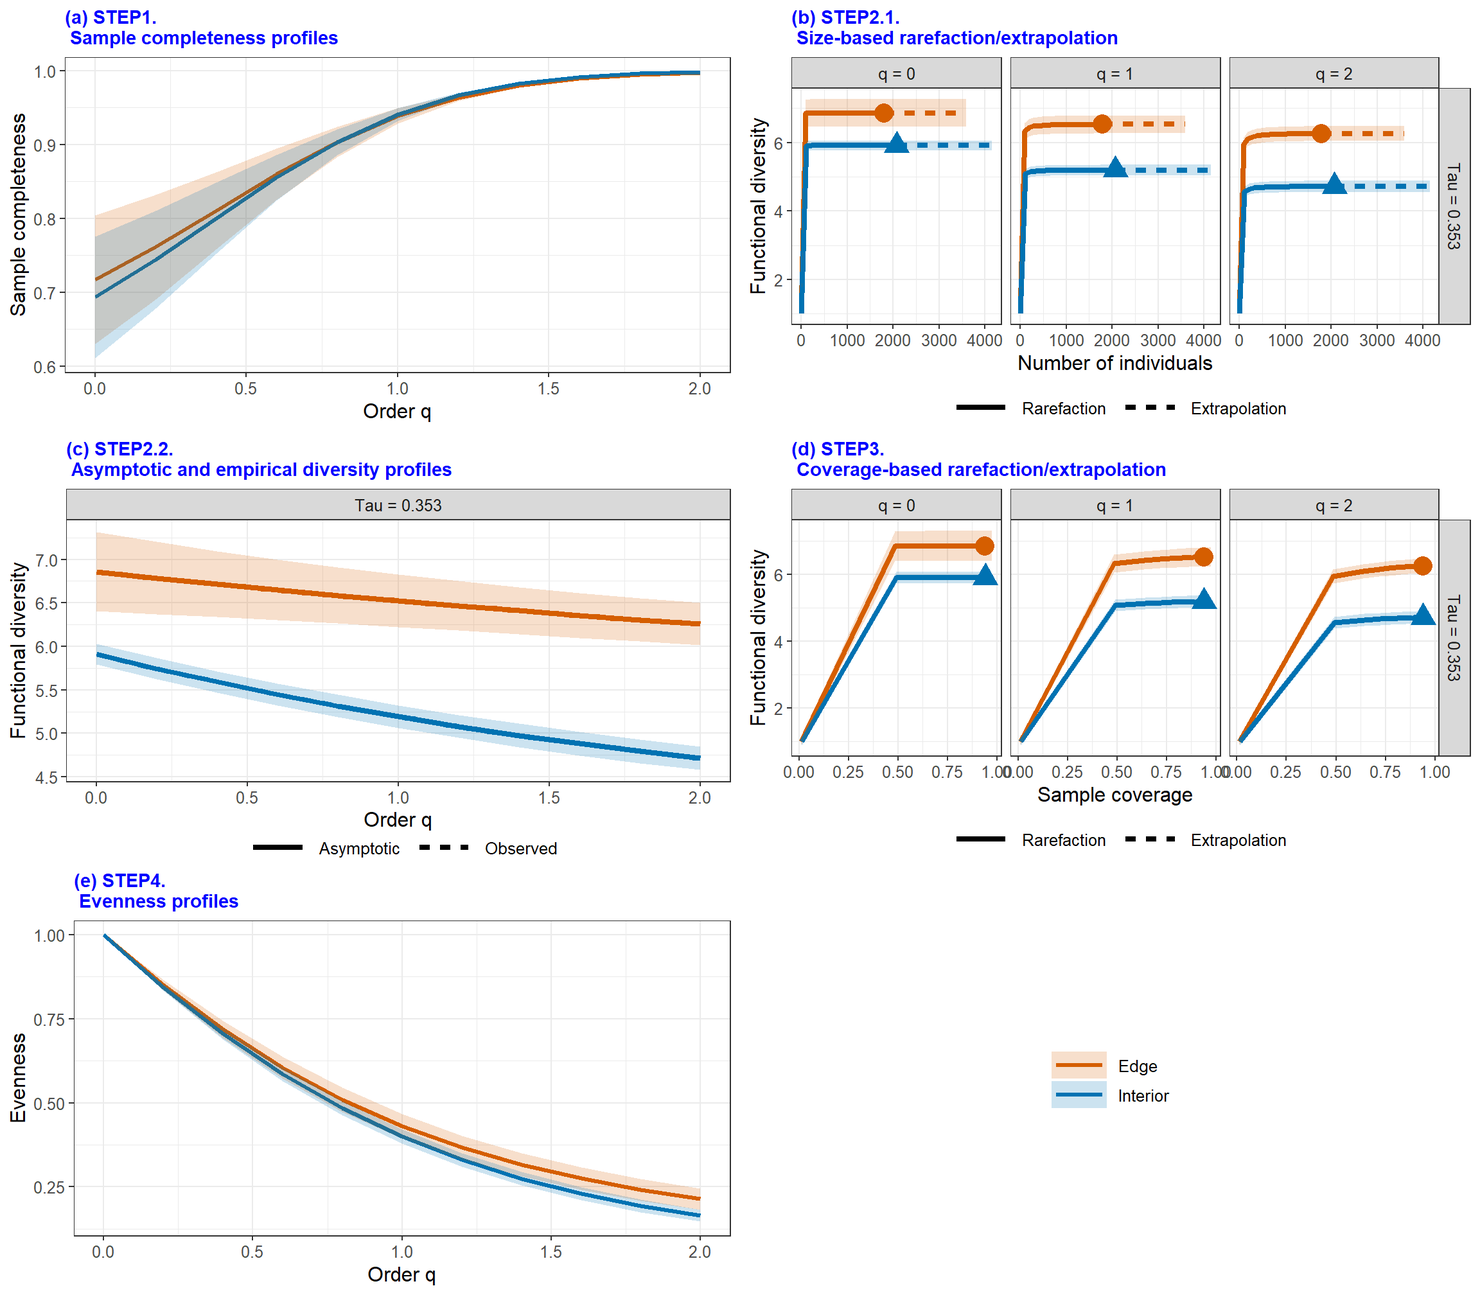
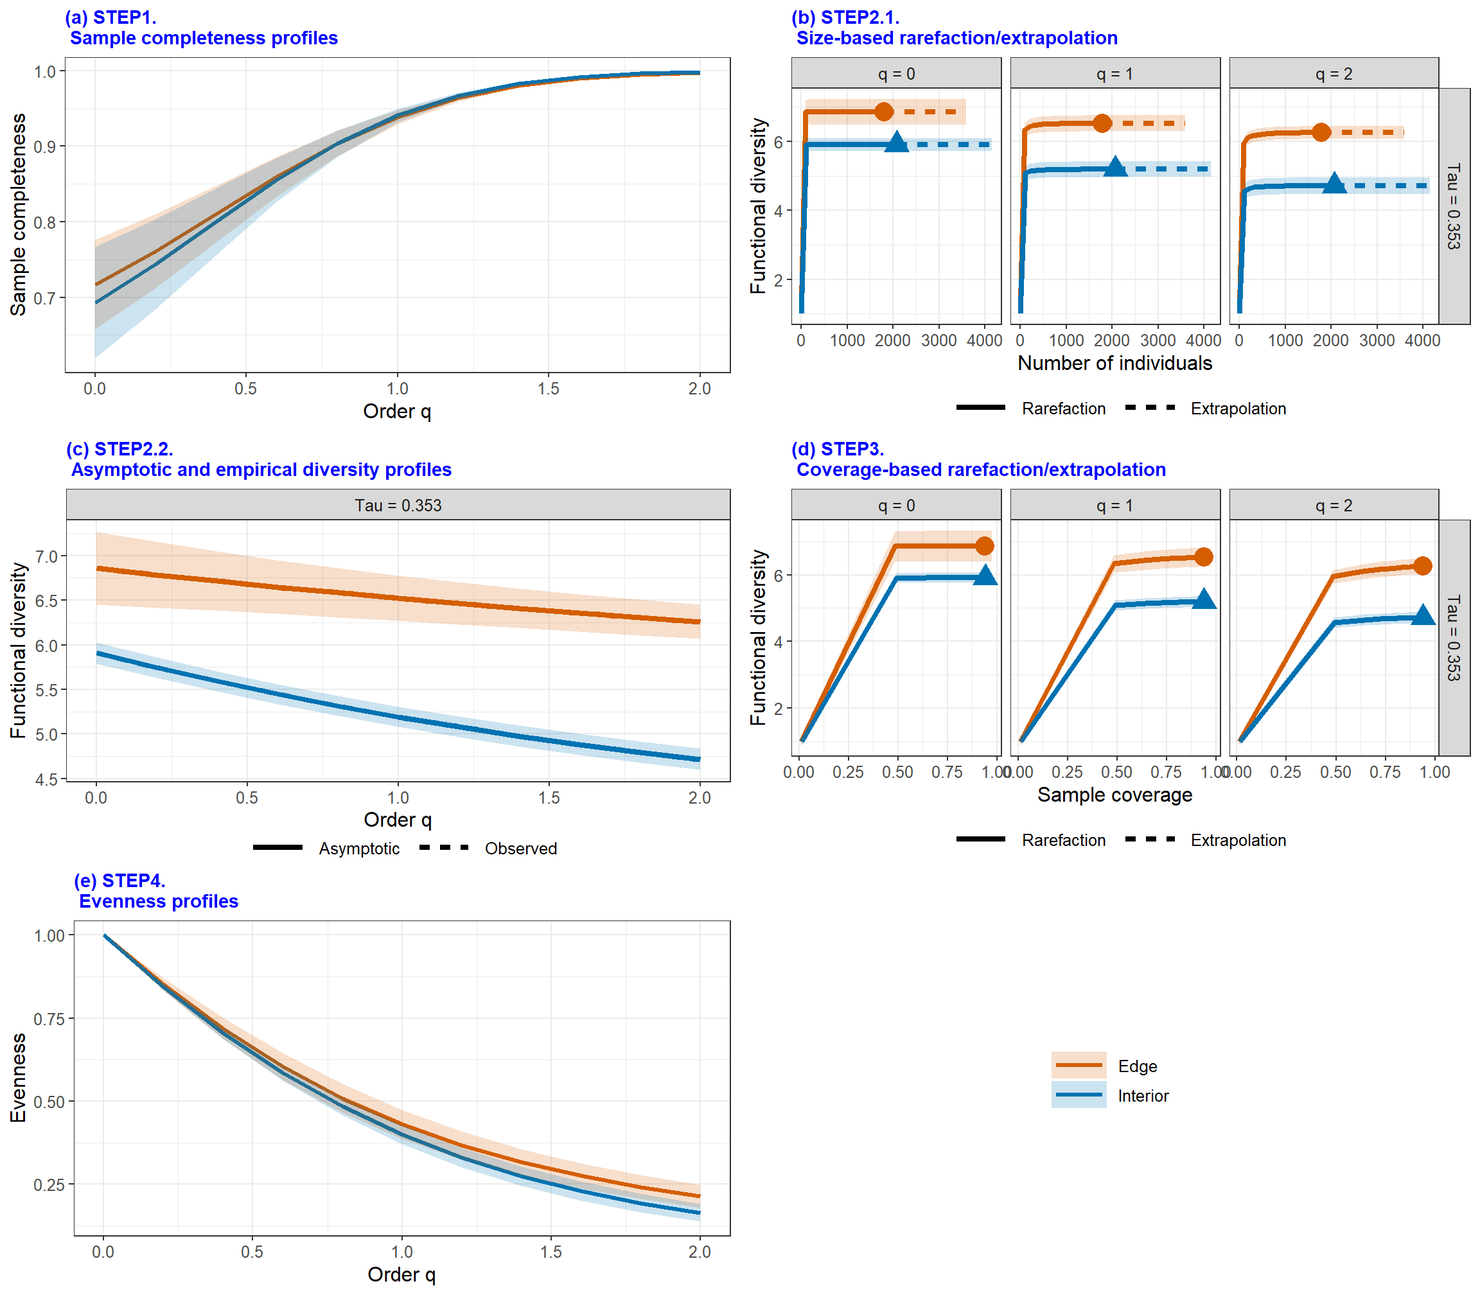
Update manual.

diff --git a/README.md b/README.md
@@ -108,7 +108,7 @@ without R background.
 
 ## SIMPLE STEPS BRIEF
 
--   **Step 1**: `Sample completeness profile`
+-   **Step 1: Sample completeness profile**
 
 `Sample Completeness` represent the proportion of observed species in
 the population (Chao et al., 2020). Usually, the sampling data
@@ -123,8 +123,8 @@ unity, we will give more weights to abundant species. By sample
 completeness, we can easily plot the estimated curve with respect to
 order q and associated 95% confidence interval.
 
--   **Step 2.1 and step 3**:
-    `Size-based and coverage-based Interpolation and Extrapolation`
+-   **Step 2.1 and step 3: Size-based and coverage-based Interpolation
+    and Extrapolation**
 
 `Interpolation and Extrapolation (iNEXT)` focuses on three measures of
 order q: species richness (q = 0), Shannon diversity (q = 1, the
@@ -151,7 +151,7 @@ units of species/lineage equivalents and can be meaningfully compared.
 For more particular usage about `iNEXT.3D`, please refer to Chao et
 al. (2021).
 
--   **Step 2.2**: `Asymptotic diversity profile`
+-   **Step 2.2: Asymptotic diversity profile**
 
 `Asymptotic Diversity (or called Hill numbers)` computes the estimated
 asymptotic 3D diversity and also plots 3D diversity profiles
@@ -164,7 +164,7 @@ estimate of PD or mean PD with respect to reference times), and a
 tau-profile (which depicts the observed and asymptotic estimate of FD
 with respect to threshold level tau).
 
--   **Step 4**: `Evenness profile`
+-   **Step 4: Evenness profile**
 
 `Evenness` is an function to compute whether a assemblage is uniform or
 not. There are five main classes according to different transformation
@@ -256,7 +256,7 @@ We use incidence frequency data (`Woody_plants`) collected from four
 sites, namely `"Upper_cloud"`, `"Lower_cloud"`, `"Lowland"`, and
 `"Monsoon"`, as an example. Note that the first row of incidence
 frequency data should be the total sampling units for each assemblage.
-Run the following code to view the first 16 rows and first 3 columns of
+Run the following code to view the first 16 rows and first 2 columns of
 the incidence frequency data.
 
 ``` r
@@ -264,7 +264,23 @@ data("Woody_plants")
 Woody_plants
 ```
 
-     [1] 129   0   0   4   2   1   0   0  16   0   4   0   0   0   0   0
+                                                                          Upper_cloud Lower_cloud
+    plots                                                                         153         203
+    Abelia_chinensis_R._Br._var._ionandra_(Hayata)_Masam.                           1           0
+    Abies_kawakamii_(Hayata)_Ito                                                    2           1
+    Acacia_confusa_Merr.                                                            0           0
+    Acer_albopurpurascens_Hayata                                                    1           2
+    Acer_kawakamii_Koidzumi                                                         7          36
+    Acer_morrisonense_Hayata                                                       25          25
+    Acer_palmatum_Thunb._var._pubescens_Li                                         12           1
+    Acer_serrulatum_Hayata                                                          6          26
+    Actinidia_chinensis_Planch._var._setosa_Li                                      0           0
+    Adinandra_formosana_Hayata                                                     12          16
+    Adinandra_lasiostyla_Hayata                                                    34          15
+    Aeschynanthus_acuminatus_Wall._ex_A._DC.                                        0           0
+    Ailanthus_altissima_(Miller)_Swingle_var._tanakai_(Hayata)_Sasaki               0           1
+    Akebia_trifoliata_(Thunb.)_Koidz._subsp._australis_(Diels)_T._Shimizu           0           1
+    Alangium_chinense_(Lour.)_Rehder                                                0           1
 
 ### Phylogenetic tree format for PD
 
@@ -574,12 +590,12 @@ $`STEP1. Sample completeness profiles`
 
 $`STEP2. Asymptotic analysis`
   Assemblage               qTD TD_obs TD_asy  s.e. qTD.LCL qTD.UCL
-1     Closed  Species richness  44.00  72.11 17.27   38.25  105.96
-2     Closed Shannon diversity  10.04  10.30  0.36    9.60   11.01
-3     Closed Simpson diversity   5.71   5.73  0.22    5.30    6.15
-4       Open  Species richness  74.00  96.31 15.39   66.14  126.47
-5       Open Shannon diversity  16.34  16.84  0.60   15.66   18.01
-6       Open Simpson diversity   9.41   9.46  0.33    8.81   10.11
+1     Closed  Species richness  44.00  72.11 18.27   36.30  107.91
+2     Closed Shannon diversity  10.04  10.30  0.47    9.37   11.23
+3     Closed Simpson diversity   5.71   5.73  0.29    5.16    6.30
+4       Open  Species richness  74.00  96.31 11.26   74.25  118.37
+5       Open Shannon diversity  16.34  16.84  0.56   15.74   17.93
+6       Open Simpson diversity   9.41   9.46  0.36    8.75   10.17
 
 $`STEP3. Non-asymptotic coverage-based rarefaction and extrapolation analysis`
   Cmax = 0.994 q = 0 q = 1 q = 2
@@ -649,12 +665,12 @@ $`STEP1. Sample completeness profiles`
 
 $`STEP2. Asymptotic analysis`
    Assemblage               qTD TD_obs TD_asy  s.e. qTD.LCL qTD.UCL
-1     Monsoon  Species richness 329.00 421.67 27.01  368.73  474.62
-2     Monsoon Shannon diversity 145.65 150.15  1.71  146.79  153.51
-3     Monsoon Simpson diversity 102.33 103.35  1.24  100.92  105.78
-4 Upper_cloud  Species richness 239.00 307.78 21.03  266.55  349.01
-5 Upper_cloud Shannon diversity 105.53 110.50  1.56  107.43  113.57
-6 Upper_cloud Simpson diversity  71.17  72.23  1.02   70.22   74.23
+1     Monsoon  Species richness 329.00 421.67 27.03  368.69  474.65
+2     Monsoon Shannon diversity 145.65 150.15  1.72  146.78  153.52
+3     Monsoon Simpson diversity 102.33 103.35  1.37  100.67  106.03
+4 Upper_cloud  Species richness 239.00 307.78 19.63  269.30  346.25
+5 Upper_cloud Shannon diversity 105.53 110.50  1.99  106.60  114.39
+6 Upper_cloud Simpson diversity  71.17  72.23  1.24   69.80   74.65
 
 $`STEP3. Non-asymptotic coverage-based rarefaction and extrapolation analysis`
   Cmax = 0.993  q = 0  q = 1  q = 2
@@ -692,12 +708,12 @@ $`STEP1. Sample completeness profiles`
 
 $`STEP2. Asymptotic analysis`
   Assemblage      qPD PD_obs PD_asy s.e. qPD.LCL qPD.UCL Reftime   Type
-1       Edge q = 0 PD  61.29  80.03 7.20   65.92   94.14     400 meanPD
-2       Edge q = 1 PD   5.25   5.37 0.11    5.16    5.58     400 meanPD
-3       Edge q = 2 PD   1.80   1.80 0.03    1.74    1.85     400 meanPD
-4   Interior q = 0 PD  69.32  86.38 4.87   76.83   95.92     400 meanPD
-5   Interior q = 1 PD   5.72   5.85 0.10    5.66    6.05     400 meanPD
-6   Interior q = 2 PD   1.91   1.91 0.02    1.87    1.96     400 meanPD
+1       Edge q = 0 PD  61.29  80.03 4.72   70.79   89.27     400 meanPD
+2       Edge q = 1 PD   5.25   5.37 0.13    5.13    5.62     400 meanPD
+3       Edge q = 2 PD   1.80   1.80 0.03    1.75    1.85     400 meanPD
+4   Interior q = 0 PD  69.32  86.38 3.41   79.69   93.06     400 meanPD
+5   Interior q = 1 PD   5.72   5.85 0.11    5.64    6.07     400 meanPD
+6   Interior q = 2 PD   1.91   1.91 0.03    1.86    1.97     400 meanPD
 
 $`STEP3. Non-asymptotic coverage-based rarefaction and extrapolation analysis`
   Cmax = 0.973 q = 0 q = 1 q = 2
@@ -738,12 +754,12 @@ $`STEP1. Sample completeness profiles`
 
 $`STEP2. Asymptotic analysis`
   Assemblage                  qFD FD_obs FD_asy s.e. qFD.LCL qFD.UCL  Tau
-1       Edge q = 0 FD(single tau)   6.86   6.86 0.22    6.42    7.30 0.35
-2       Edge q = 1 FD(single tau)   6.52   6.52 0.14    6.26    6.79 0.35
+1       Edge q = 0 FD(single tau)   6.86   6.86 0.17    6.52    7.20 0.35
+2       Edge q = 1 FD(single tau)   6.52   6.52 0.12    6.28    6.76 0.35
 3       Edge q = 2 FD(single tau)   6.26   6.26 0.11    6.05    6.47 0.35
-4   Interior q = 0 FD(single tau)   5.91   5.91 0.06    5.79    6.03 0.35
-5   Interior q = 1 FD(single tau)   5.19   5.19 0.08    5.04    5.34 0.35
-6   Interior q = 2 FD(single tau)   4.72   4.72 0.08    4.55    4.88 0.35
+4   Interior q = 0 FD(single tau)   5.91   5.91 0.07    5.76    6.05 0.35
+5   Interior q = 1 FD(single tau)   5.19   5.19 0.09    5.02    5.36 0.35
+6   Interior q = 2 FD(single tau)   4.72   4.72 0.09    4.54    4.90 0.35
 
 $`STEP3. Non-asymptotic coverage-based rarefaction and extrapolation analysis`
   Cmax = 0.973 q = 0 q = 1 q = 2
@@ -877,28 +893,28 @@ data(Spider)
 out1 <- Completeness(data = Spider, datatype = "abundance")
 out1
    Order.q Estimate.SC         s.e.    SC.LCL    SC.UCL Assemblage
-1      0.0   0.7683622 7.881909e-02 0.6138796 0.9228448       Open
-2      0.2   0.8181065 5.830653e-02 0.7038278 0.9323852       Open
-3      0.4   0.8768761 3.520988e-02 0.8078660 0.9458862       Open
-4      0.6   0.9302044 1.661199e-02 0.8976455 0.9627633       Open
-5      0.8   0.9664828 6.246960e-03 0.9542389 0.9787266       Open
-6      1.0   0.9858045 2.001376e-03 0.9818819 0.9897271       Open
-7      1.2   0.9944729 6.077648e-04 0.9932817 0.9956641       Open
-8      1.4   0.9979624 2.085246e-04 0.9975537 0.9983711       Open
-9      1.6   0.9992757 8.695740e-05 0.9991052 0.9994461       Open
-10     1.8   0.9997489 3.871000e-05 0.9996731 0.9998248       Open
-11     2.0   0.9999146 1.684662e-05 0.9998815 0.9999476       Open
-12     0.0   0.6102206 1.096237e-01 0.3953622 0.8250790     Closed
-13     0.2   0.7182647 8.074973e-02 0.5599982 0.8765313     Closed
-14     0.4   0.8338575 4.592607e-02 0.7438441 0.9238709     Closed
-15     0.6   0.9215916 1.929979e-02 0.8837647 0.9594185     Closed
-16     0.8   0.9692426 6.264917e-03 0.9569636 0.9815216     Closed
-17     1.0   0.9893733 1.730946e-03 0.9859807 0.9927659     Closed
-18     1.2   0.9966174 4.813958e-04 0.9956739 0.9975609     Closed
-19     1.4   0.9989804 1.650075e-04 0.9986570 0.9993038     Closed
-20     1.6   0.9997042 6.534401e-05 0.9995762 0.9998323     Closed
-21     1.8   0.9999166 2.567485e-05 0.9998663 0.9999669     Closed
-22     2.0   0.9999770 9.604946e-06 0.9999582 0.9999958     Closed
+1      0.0   0.7683622 9.481347e-02 0.5825312 0.9541932       Open
+2      0.2   0.8181065 7.064529e-02 0.6796443 0.9565687       Open
+3      0.4   0.8768761 4.269957e-02 0.7931865 0.9605658       Open
+4      0.6   0.9302044 2.004604e-02 0.8909149 0.9694940       Open
+5      0.8   0.9664828 7.473631e-03 0.9518347 0.9811308       Open
+6      1.0   0.9858045 2.378624e-03 0.9811425 0.9904665       Open
+7      1.2   0.9944729 7.210652e-04 0.9930596 0.9958861       Open
+8      1.4   0.9979624 2.443664e-04 0.9974834 0.9984413       Open
+9      1.6   0.9992757 9.868063e-05 0.9990823 0.9994691       Open
+10     1.8   0.9997489 4.254166e-05 0.9996656 0.9998323       Open
+11     2.0   0.9999146 1.804458e-05 0.9998792 0.9999499       Open
+12     0.0   0.6102206 1.290200e-01 0.3573462 0.8630951     Closed
+13     0.2   0.7182647 9.851865e-02 0.5251717 0.9113577     Closed
+14     0.4   0.8338575 5.765765e-02 0.7208506 0.9468644     Closed
+15     0.6   0.9215916 2.330820e-02 0.8759084 0.9672748     Closed
+16     0.8   0.9692426 6.962278e-03 0.9555968 0.9828884     Closed
+17     1.0   0.9893733 1.873850e-03 0.9857006 0.9930459     Closed
+18     1.2   0.9966174 5.822561e-04 0.9954762 0.9977586     Closed
+19     1.4   0.9989804 2.203640e-04 0.9985485 0.9994123     Closed
+20     1.6   0.9997042 8.700597e-05 0.9995337 0.9998748     Closed
+21     1.8   0.9999166 3.326519e-05 0.9998514 0.9999818     Closed
+22     2.0   0.9999770 1.223136e-05 0.9999530 1.0000000     Closed
 ```
 
 The following commands plot sample completeness curves, along with its
@@ -920,28 +936,28 @@ data(Woody_plants)
 out2 <- Completeness(data = Woody_plants[,c(1,4)], datatype = "incidence_freq")
 out2
    Order.q Estimate.SC         s.e.    SC.LCL    SC.UCL  Assemblage
-1      0.0   0.7765330 5.585889e-02 0.6670516 0.8860144 Upper_cloud
-2      0.2   0.8358241 3.923805e-02 0.7589189 0.9127293 Upper_cloud
-3      0.4   0.8915125 2.360559e-02 0.8452464 0.9377786 Upper_cloud
-4      0.6   0.9354738 1.208284e-02 0.9117918 0.9591557 Upper_cloud
-5      0.8   0.9649731 5.329743e-03 0.9545270 0.9754192 Upper_cloud
-6      1.0   0.9823020 2.076560e-03 0.9782321 0.9863720 Upper_cloud
-7      1.2   0.9915212 7.615384e-04 0.9900286 0.9930138 Upper_cloud
-8      1.4   0.9960932 3.214034e-04 0.9954633 0.9967232 Upper_cloud
-9      1.6   0.9982514 1.802434e-04 0.9978982 0.9986047 Upper_cloud
-10     1.8   0.9992348 1.100643e-04 0.9990190 0.9994505 Upper_cloud
-11     2.0   0.9996711 6.447329e-05 0.9995447 0.9997975 Upper_cloud
-12     0.0   0.7802244 4.147521e-02 0.6989345 0.8615144     Monsoon
-13     0.2   0.8490462 2.680152e-02 0.7965162 0.9015762     Monsoon
-14     0.4   0.9086970 1.435193e-02 0.8805678 0.9368263     Monsoon
-15     0.6   0.9508262 6.415580e-03 0.9382519 0.9634006     Monsoon
-16     0.8   0.9758389 2.455199e-03 0.9710268 0.9806510     Monsoon
-17     1.0   0.9888942 8.351815e-04 0.9872573 0.9905311     Monsoon
-18     1.2   0.9951304 2.858212e-04 0.9945702 0.9956906     Monsoon
-19     1.4   0.9979362 1.296975e-04 0.9976820 0.9981904     Monsoon
-20     1.6   0.9991474 7.363881e-05 0.9990031 0.9992917     Monsoon
-21     1.8   0.9996547 4.140270e-05 0.9995736 0.9997359     Monsoon
-22     2.0   0.9998625 2.185975e-05 0.9998196 0.9999053     Monsoon
+1      0.0   0.7765330 3.945082e-02 0.6992108 0.8538552 Upper_cloud
+2      0.2   0.8358241 2.730851e-02 0.7823004 0.8893478 Upper_cloud
+3      0.4   0.8915125 1.626604e-02 0.8596316 0.9233933 Upper_cloud
+4      0.6   0.9354738 8.335205e-03 0.9191371 0.9518105 Upper_cloud
+5      0.8   0.9649731 3.755301e-03 0.9576129 0.9723334 Upper_cloud
+6      1.0   0.9823020 1.554049e-03 0.9792562 0.9853479 Upper_cloud
+7      1.2   0.9915212 6.445519e-04 0.9902579 0.9927845 Upper_cloud
+8      1.4   0.9960932 3.032244e-04 0.9954989 0.9966875 Upper_cloud
+9      1.6   0.9982514 1.641998e-04 0.9979296 0.9985733 Upper_cloud
+10     1.8   0.9992348 9.264975e-05 0.9990532 0.9994164 Upper_cloud
+11     2.0   0.9996711 5.117167e-05 0.9995708 0.9997714 Upper_cloud
+12     0.0   0.7802244 4.946689e-02 0.6832711 0.8771778     Monsoon
+13     0.2   0.8490462 3.254597e-02 0.7852573 0.9128352     Monsoon
+14     0.4   0.9086970 1.762230e-02 0.8741580 0.9432361     Monsoon
+15     0.6   0.9508262 7.923499e-03 0.9352965 0.9663560     Monsoon
+16     0.8   0.9758389 3.049352e-03 0.9698623 0.9818155     Monsoon
+17     1.0   0.9888942 1.039192e-03 0.9868574 0.9909310     Monsoon
+18     1.2   0.9951304 3.404490e-04 0.9944631 0.9957977     Monsoon
+19     1.4   0.9979362 1.379567e-04 0.9976658 0.9982066     Monsoon
+20     1.6   0.9991474 7.495364e-05 0.9990005 0.9992943     Monsoon
+21     1.8   0.9996547 4.242513e-05 0.9995716 0.9997379     Monsoon
+22     2.0   0.9998625 2.270661e-05 0.9998179 0.9999070     Monsoon
 ```
 
 The following commands plot sample completeness curves, along with its
@@ -1105,27 +1121,27 @@ out1 <- Evenness(data = Spider, datatype = "abundance",
 out1$E1
    Order.q  Evenness        s.e.  Even.LCL  Even.UCL Assemblage    Method        SC
 1      0.0 1.0000000 0.000000000 1.0000000 1.0000000       Open Estimated 0.9937676
-2      0.2 0.7276194 0.019876494 0.6886622 0.7665766       Open Estimated 0.9937676
-3      0.4 0.6008010 0.025913540 0.5500114 0.6515906       Open Estimated 0.9937676
-4      0.6 0.5628529 0.025786372 0.5123126 0.6133933       Open Estimated 0.9937676
-5      0.8 0.5801167 0.022667896 0.5356885 0.6245450       Open Estimated 0.9937676
-6      1.0 0.6297250 0.018166007 0.5941202 0.6653297       Open Estimated 0.9937676
-7      1.2 0.6941362 0.013468596 0.6677382 0.7205341       Open Estimated 0.9937676
-8      1.4 0.7600773 0.009485700 0.7414856 0.7786689       Open Estimated 0.9937676
-9      1.6 0.8190763 0.006654641 0.8060335 0.8321192       Open Estimated 0.9937676
-10     1.8 0.8673381 0.004889330 0.8577551 0.8769210       Open Estimated 0.9937676
-11     2.0 0.9044427 0.003818402 0.8969588 0.9119266       Open Estimated 0.9937676
+2      0.2 0.7276194 0.017474610 0.6933698 0.7618690       Open Estimated 0.9937676
+3      0.4 0.6008010 0.022861236 0.5559938 0.6456082       Open Estimated 0.9937676
+4      0.6 0.5628529 0.022811667 0.5181429 0.6075630       Open Estimated 0.9937676
+5      0.8 0.5801167 0.020159768 0.5406043 0.6196292       Open Estimated 0.9937676
+6      1.0 0.6297250 0.016344703 0.5976899 0.6617600       Open Estimated 0.9937676
+7      1.2 0.6941362 0.012378998 0.6698738 0.7183985       Open Estimated 0.9937676
+8      1.4 0.7600773 0.008997610 0.7424423 0.7777123       Open Estimated 0.9937676
+9      1.6 0.8190763 0.006528693 0.8062803 0.8318723       Open Estimated 0.9937676
+10     1.8 0.8673381 0.004889999 0.8577538 0.8769223       Open Estimated 0.9937676
+11     2.0 0.9044427 0.003809103 0.8969770 0.9119084       Open Estimated 0.9937676
 12     0.0 1.0000000 0.000000000 1.0000000 1.0000000     Closed Estimated 0.9937676
-13     0.2 0.6996114 0.035731801 0.6295783 0.7696444     Closed Estimated 0.9937676
-14     0.4 0.5665175 0.045811273 0.4767291 0.6563059     Closed Estimated 0.9937676
-15     0.6 0.5253117 0.045432919 0.4362649 0.6143586     Closed Estimated 0.9937676
-16     0.8 0.5365988 0.039999708 0.4582008 0.6149967     Closed Estimated 0.9937676
-17     1.0 0.5775431 0.032126724 0.5145758 0.6405103     Closed Estimated 0.9937676
-18     1.2 0.6330777 0.023770021 0.5864893 0.6796661     Closed Estimated 0.9937676
-19     1.4 0.6926130 0.016464519 0.6603431 0.7248828     Closed Estimated 0.9937676
-20     1.6 0.7491390 0.011103175 0.7273772 0.7709008     Closed Estimated 0.9937676
-21     1.8 0.7988183 0.007836255 0.7834595 0.8141770     Closed Estimated 0.9937676
-22     2.0 0.8402207 0.006186862 0.8280947 0.8523467     Closed Estimated 0.9937676
+13     0.2 0.6996114 0.034852544 0.6313017 0.7679211     Closed Estimated 0.9937676
+14     0.4 0.5665175 0.045837792 0.4766771 0.6563579     Closed Estimated 0.9937676
+15     0.6 0.5253117 0.046456519 0.4342586 0.6163648     Closed Estimated 0.9937676
+16     0.8 0.5365988 0.041914965 0.4544469 0.6187506     Closed Estimated 0.9937676
+17     1.0 0.5775431 0.034823871 0.5092895 0.6457966     Closed Estimated 0.9937676
+18     1.2 0.6330777 0.027063319 0.5800346 0.6861209     Closed Estimated 0.9937676
+19     1.4 0.6926130 0.020057779 0.6533004 0.7319255     Closed Estimated 0.9937676
+20     1.6 0.7491390 0.014616559 0.7204911 0.7777870     Closed Estimated 0.9937676
+21     1.8 0.7988183 0.010883244 0.7774875 0.8201490     Closed Estimated 0.9937676
+22     2.0 0.8402207 0.008545150 0.8234725 0.8569689     Closed Estimated 0.9937676
 ```
 
 The following commands plot the evenness curves, along with its
@@ -1150,27 +1166,27 @@ out2 <- Evenness(data = Woody_plants[,c(1,4)], datatype = "incidence_freq",
 out2$E1
    Order.q  Evenness         s.e.  Even.LCL  Even.UCL  Assemblage    Method        SC
 1      0.0 1.0000000 0.0000000000 1.0000000 1.0000000 Upper_cloud Estimated 0.9925846
-2      0.2 0.8302829 0.0112153534 0.8083012 0.8522646 Upper_cloud Estimated 0.9925846
-3      0.4 0.7565487 0.0149289533 0.7272885 0.7858089 Upper_cloud Estimated 0.9925846
-4      0.6 0.7473532 0.0146001205 0.7187375 0.7759689 Upper_cloud Estimated 0.9925846
-5      0.8 0.7795871 0.0120660777 0.7559380 0.8032361 Upper_cloud Estimated 0.9925846
-6      1.0 0.8323270 0.0086369347 0.8153989 0.8492551 Upper_cloud Estimated 0.9925846
-7      1.2 0.8869413 0.0054001960 0.8763571 0.8975255 Upper_cloud Estimated 0.9925846
-8      1.4 0.9312253 0.0030042462 0.9253371 0.9371135 Upper_cloud Estimated 0.9925846
-9      1.6 0.9614213 0.0015352568 0.9584122 0.9644303 Upper_cloud Estimated 0.9925846
-10     1.8 0.9795937 0.0007486165 0.9781265 0.9810610 Upper_cloud Estimated 0.9925846
-11     2.0 0.9895988 0.0003673000 0.9888789 0.9903187 Upper_cloud Estimated 0.9925846
+2      0.2 0.8302829 0.0076490280 0.8152911 0.8452747 Upper_cloud Estimated 0.9925846
+3      0.4 0.7565487 0.0100862627 0.7367800 0.7763174 Upper_cloud Estimated 0.9925846
+4      0.6 0.7473532 0.0098008078 0.7281440 0.7665625 Upper_cloud Estimated 0.9925846
+5      0.8 0.7795871 0.0080657630 0.7637785 0.7953957 Upper_cloud Estimated 0.9925846
+6      1.0 0.8323270 0.0057570559 0.8210434 0.8436106 Upper_cloud Estimated 0.9925846
+7      1.2 0.8869413 0.0035944817 0.8798962 0.8939863 Upper_cloud Estimated 0.9925846
+8      1.4 0.9312253 0.0020038459 0.9272979 0.9351528 Upper_cloud Estimated 0.9925846
+9      1.6 0.9614213 0.0010339467 0.9593948 0.9634478 Upper_cloud Estimated 0.9925846
+10     1.8 0.9795937 0.0005149306 0.9785845 0.9806030 Upper_cloud Estimated 0.9925846
+11     2.0 0.9895988 0.0002596511 0.9890899 0.9901077 Upper_cloud Estimated 0.9925846
 12     0.0 1.0000000 0.0000000000 1.0000000 1.0000000     Monsoon Estimated 0.9925846
-13     0.2 0.8270279 0.0076794775 0.8119764 0.8420794     Monsoon Estimated 0.9925846
-14     0.4 0.7581724 0.0099141578 0.7387410 0.7776038     Monsoon Estimated 0.9925846
-15     0.6 0.7554881 0.0094102379 0.7370443 0.7739318     Monsoon Estimated 0.9925846
-16     0.8 0.7929638 0.0075350196 0.7781954 0.8077322     Monsoon Estimated 0.9925846
-17     1.0 0.8482450 0.0052010173 0.8380512 0.8584388     Monsoon Estimated 0.9925846
-18     1.2 0.9022994 0.0031161898 0.8961918 0.9084070     Monsoon Estimated 0.9925846
-19     1.4 0.9437403 0.0016532387 0.9405000 0.9469806     Monsoon Estimated 0.9925846
-20     1.6 0.9703214 0.0008043787 0.9687448 0.9718979     Monsoon Estimated 0.9925846
-21     1.8 0.9853020 0.0003736373 0.9845697 0.9860343     Monsoon Estimated 0.9925846
-22     2.0 0.9930196 0.0001728704 0.9926808 0.9933584     Monsoon Estimated 0.9925846
+13     0.2 0.8270279 0.0083714125 0.8106202 0.8434355     Monsoon Estimated 0.9925846
+14     0.4 0.7581724 0.0108983810 0.7368120 0.7795328     Monsoon Estimated 0.9925846
+15     0.6 0.7554881 0.0104049651 0.7350947 0.7758814     Monsoon Estimated 0.9925846
+16     0.8 0.7929638 0.0083519563 0.7765943 0.8093333     Monsoon Estimated 0.9925846
+17     1.0 0.8482450 0.0057547836 0.8369658 0.8595241     Monsoon Estimated 0.9925846
+18     1.2 0.9022994 0.0034232908 0.8955899 0.9090089     Monsoon Estimated 0.9925846
+19     1.4 0.9437403 0.0017898253 0.9402323 0.9472483     Monsoon Estimated 0.9925846
+20     1.6 0.9703214 0.0008497857 0.9686558 0.9719869     Monsoon Estimated 0.9925846
+21     1.8 0.9853020 0.0003809243 0.9845554 0.9860486     Monsoon Estimated 0.9925846
+22     2.0 0.9930196 0.0001685398 0.9926893 0.9933500     Monsoon Estimated 0.9925846
 ```
 
 The following commands plot the evenness curves, along with its
